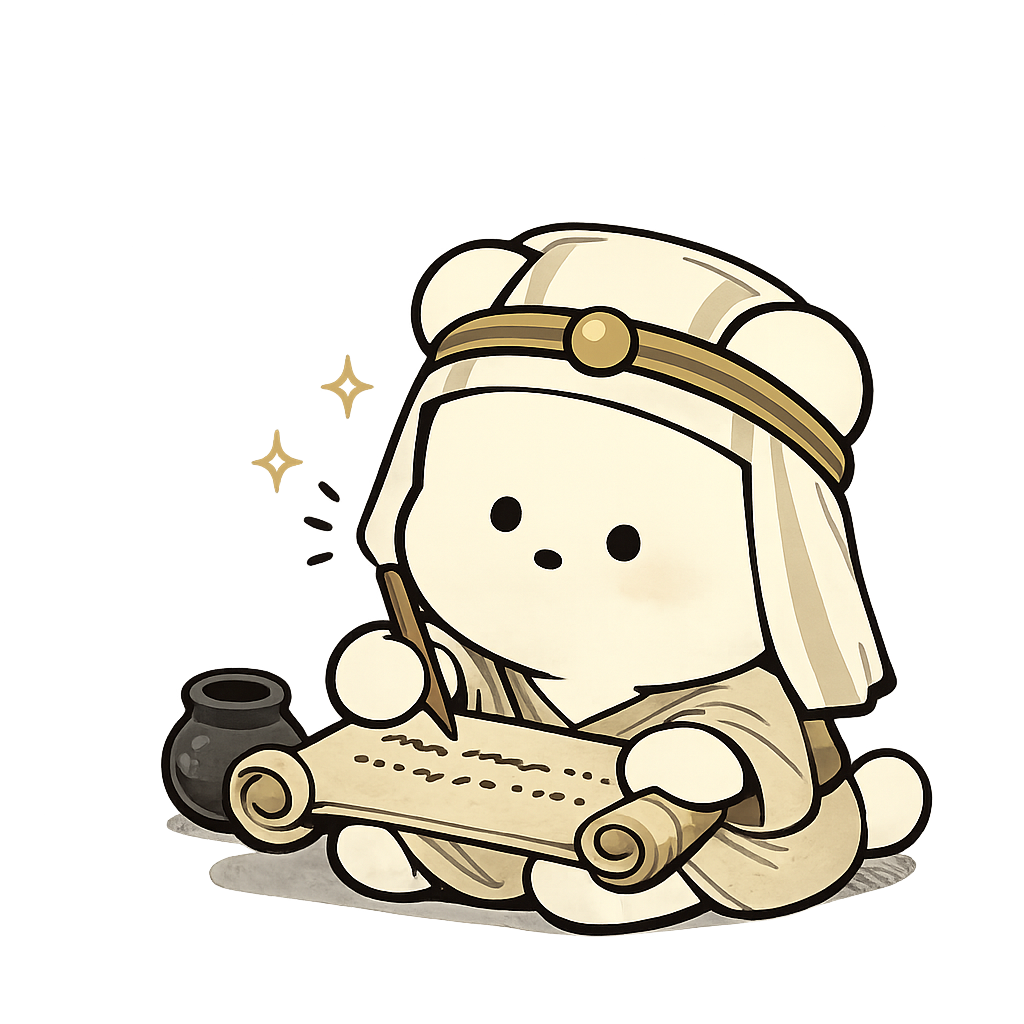
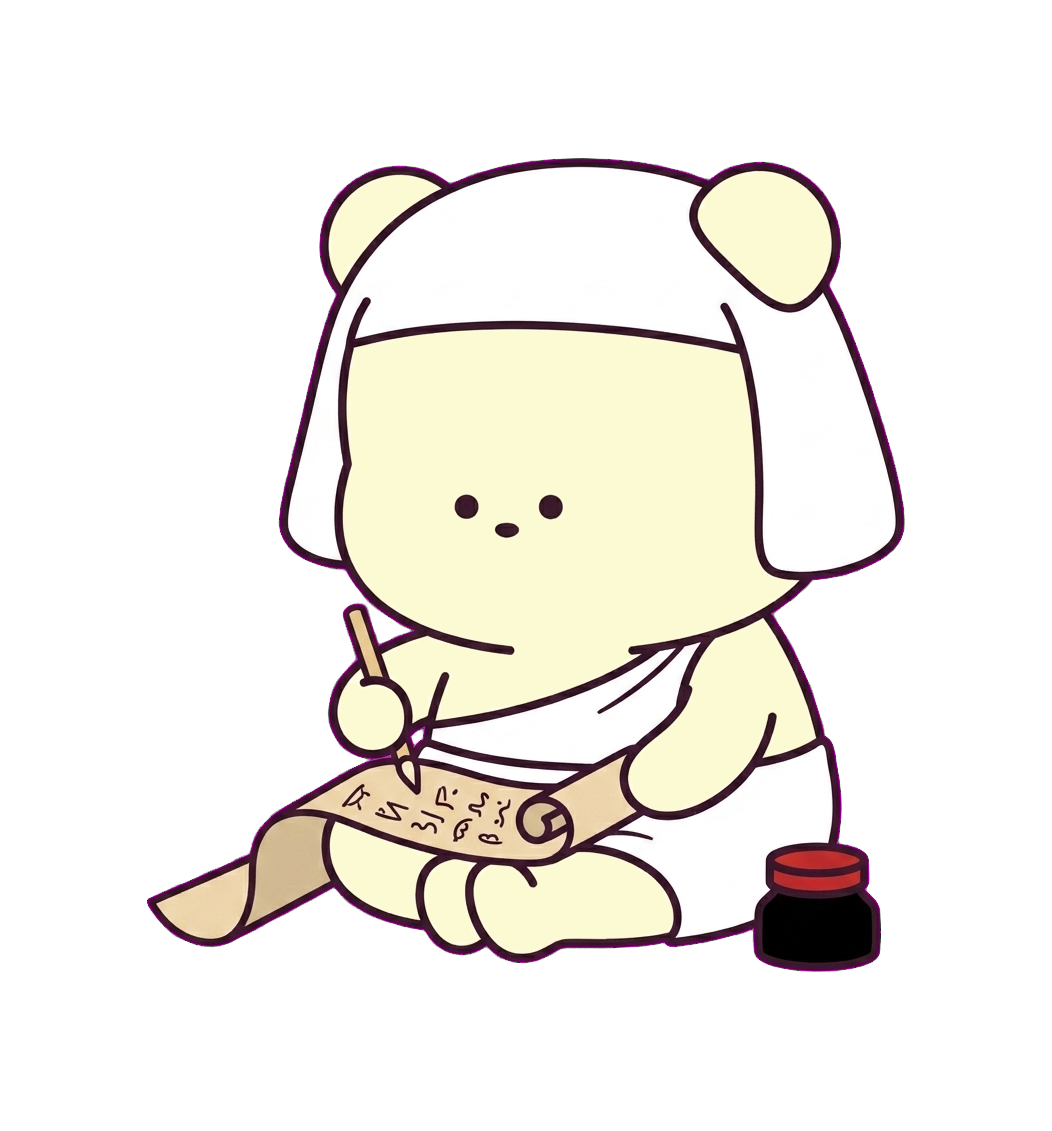
feat(vanished-jobs-archive): 職業名を拡大(上限8.8cqw)・001/002を現行様式で再作成・011-020のイラスト7枚追加
- 011私掠船員/012水売り/013居眠り起こし係/014御椅子係/017点灯夫/018松明持ち/020死体盗掘人
- 015計算手/016ノッカーアップ/019ヒル採集人は提供済み画像のまま
- 002のNUDGE(位置補正)は新画像で不要になったため解除

diff --git a/vanished-jobs-archive/src/components/JobCard.tsx b/vanished-jobs-archive/src/components/JobCard.tsx
@@ -35,9 +35,7 @@ function BearPlaceholder() {
 const OVERSIZED = new Set(["jobs/knocker.png", "jobs/iceman.png"]);
 
 /** 画像ごとの位置微調整（絵柄がカード中央に来るように） */
-const NUDGE: Record<string, string> = {
-  "jobs/002.png": "translate(-5px, 5px)",
-};
+const NUDGE: Record<string, string> = {};
 
 /** 全角=1・半角=0.5 で実効文字数を数える（長い名前の縮小率計算用） */
 function effLen(s: string) {
@@ -59,8 +57,8 @@ export default function JobCard({ job }: { job: Job }) {
     ? `${statusMeta[job.status].mark}${dict.status[job.status]}${job.endLabel ? ` ${job.endLabel}` : ""}`
     : `${statusMeta[job.status].mark}${statusMeta[job.status].label}${job.endLabel ? ` ${job.endLabel}` : ""}`;
 
-  // 名前は必ず1行に収める: カード内幅86cqwに対し収まるサイズへ縮小（上限7.4cqw）
-  const nameSize = Math.min(7.4, 84 / effLen(name));
+  // 名前は必ず1行に収める: カード内幅86cqwに対し収まるサイズへ縮小（上限8.8cqw）
+  const nameSize = Math.min(8.8, 84 / effLen(name));
 
   return (
     <div className="@container block h-full w-full">
